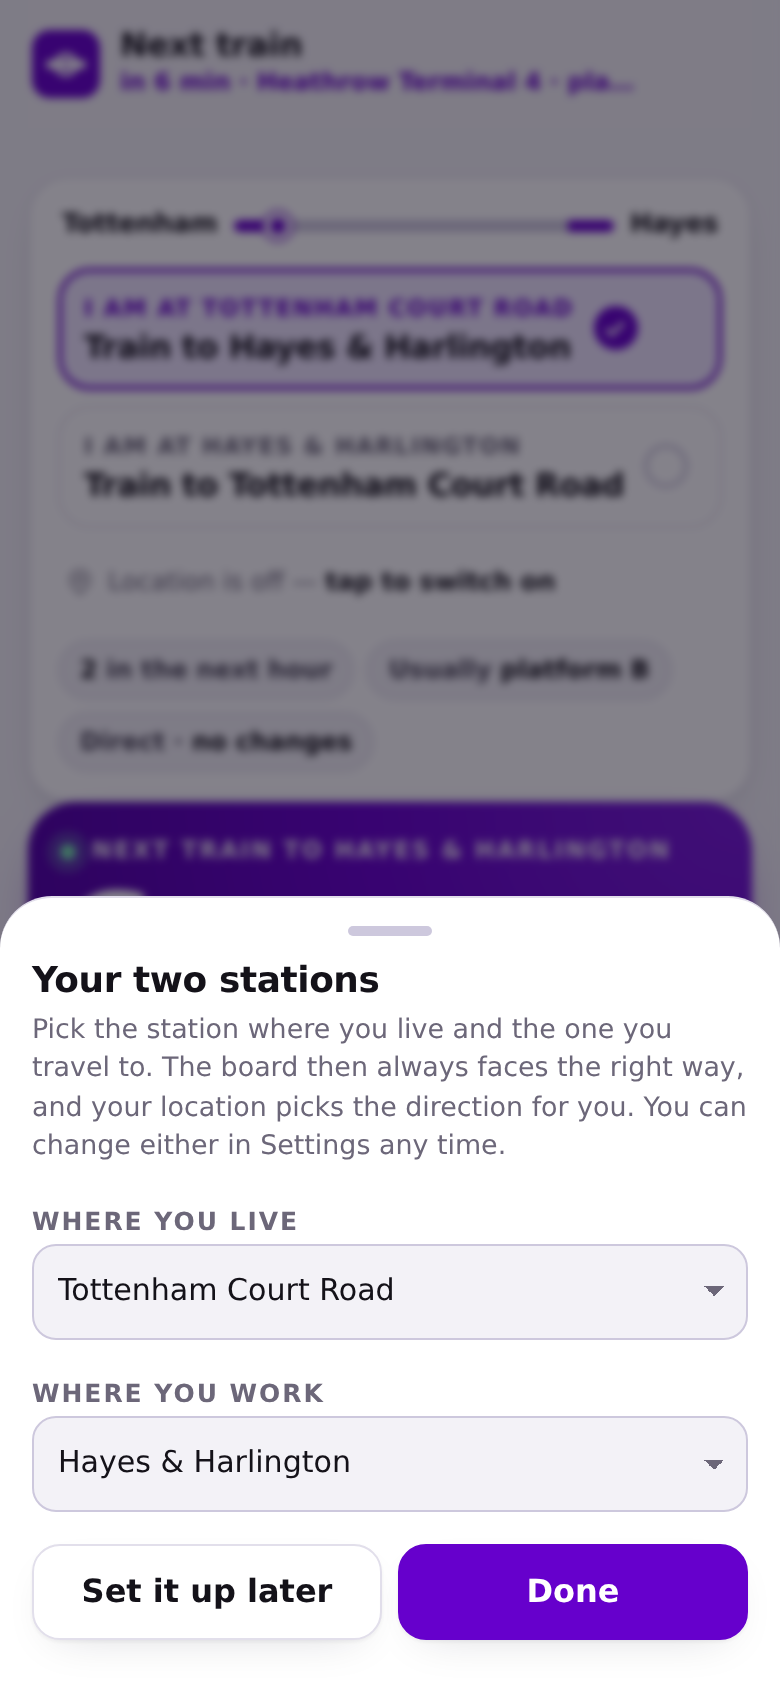
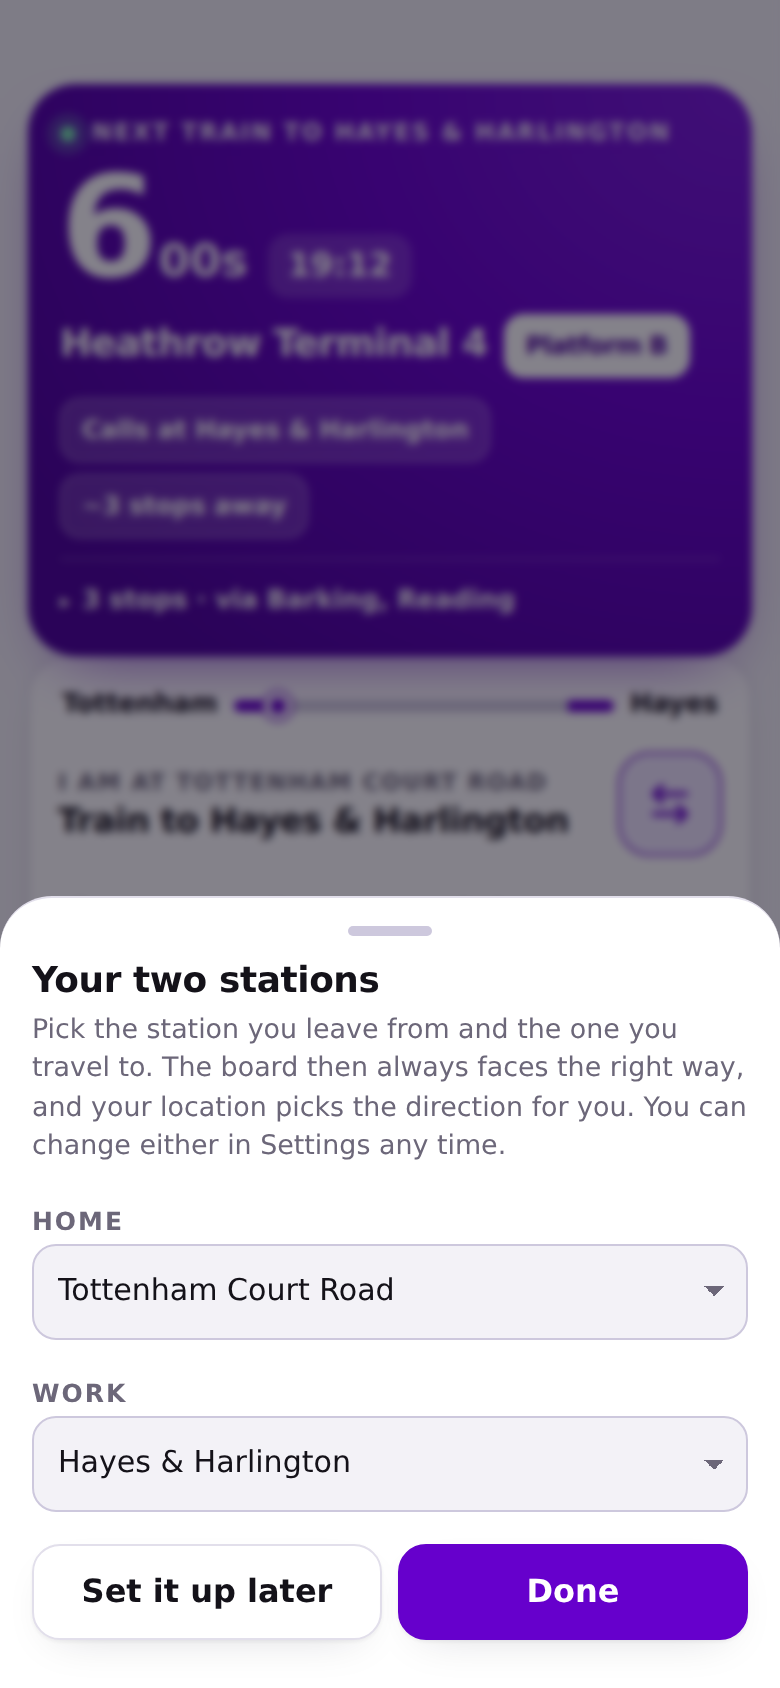
1.4.0: big card leads the screen; one-row direction with flip; one-time setup; Home/Work labels; tri-colour line status

diff --git a/web/index.html b/web/index.html
@@ -43,7 +43,7 @@
   .sr-only{position:absolute!important;width:1px;height:1px;padding:0;margin:-1px;overflow:hidden;clip:rect(0 0 0 0);white-space:nowrap;border:0}
   :focus-visible{outline:3px solid color-mix(in srgb, var(--el) 55%, transparent); outline-offset:2px; border-radius:8px}
 
-  .app{width:100%; max-width:540px; padding:0 14px calc(78px + env(safe-area-inset-bottom)); display:flex; flex-direction:column; gap:12px;
+  .app{width:100%; max-width:540px; padding:calc(10px + env(safe-area-inset-top)) 14px calc(78px + env(safe-area-inset-bottom)); display:flex; flex-direction:column; gap:12px;
        transition:transform .25s cubic-bezier(.2,.8,.3,1.15)}
   .app.is-pulling{transition:none}
 
@@ -74,24 +74,14 @@
   .route-where b{color:var(--ink)}
 
   /* pull-to-refresh indicator, parked where the old header buttons used to sit */
-  .pull-ind{width:44px;height:44px;flex:0 0 auto;border-radius:14px;display:grid;place-items:center;color:var(--el);
-            opacity:0;transform:scale(.55);transition:opacity .18s ease,transform .18s ease;pointer-events:none}
+  .pull-ind{position:absolute;top:10px;left:50%;transform:translateX(-50%) scale(.55);width:44px;height:44px;z-index:5;
+            border-radius:14px;display:grid;place-items:center;color:var(--el);background:var(--card);
+            box-shadow:0 2px 10px rgba(0,0,0,.18);opacity:0;transition:opacity .18s ease,transform .18s ease;pointer-events:none}
   .pull-ind svg{width:22px;height:22px}
-  .pull-ind.dragging,.pull-ind.loading{opacity:1;transform:scale(1)}
+  .pull-ind.dragging,.pull-ind.loading{opacity:1;transform:translateX(-50%) scale(1)}
   .pull-ind.loading svg{animation:spin .8s linear infinite}
 
-  /* ---------- top bar ---------- */
-  .bar{
-    position:sticky; top:0; z-index:30; display:flex; align-items:center; gap:10px;
-    padding:calc(10px + env(safe-area-inset-top)) 2px 10px;
-    background:color-mix(in srgb, var(--bg) 86%, transparent); backdrop-filter:blur(12px) saturate(1.2);
-  }
-  .mark{width:34px;height:34px;flex:0 0 auto;border-radius:9px;background:var(--el);display:grid;place-items:center}
-  .mark svg{width:22px;height:22px;display:block}
-  .bar-title{flex:1 1 auto; min-width:0}
-  .bar-title strong{display:block;font-size:1.02rem;letter-spacing:-.01em;line-height:1.2}
-  .bar-title span{display:block;font-size:.76rem;color:var(--muted);white-space:nowrap;overflow:hidden;text-overflow:ellipsis}
-  .bar-title.compact span{color:var(--el);font-weight:700;font-variant-numeric:tabular-nums}
+  /* ---------- one row: where you are + the flip button ---------- */
   .icon-btn{
     width:44px;height:44px;flex:0 0 auto;border:1px solid var(--line);background:var(--card);border-radius:14px;
     display:grid;place-items:center;cursor:pointer;box-shadow:var(--shadow);
@@ -115,7 +105,9 @@
   .banner .affects span{color:var(--card)}
   .banner[data-sev="bad"]{background:var(--bad-soft);color:var(--bad);border:1px solid color-mix(in srgb, currentColor 28%, transparent)}
   .banner[data-sev="warn"]{background:var(--warn-soft);color:var(--warn);border:1px solid color-mix(in srgb, currentColor 28%, transparent)}
-  .banner[data-sev="good"]{background:var(--ok-soft);color:var(--ok);border:1px solid color-mix(in srgb, currentColor 24%, transparent)}
+  .banner[data-sev="good"]{width:fit-content;display:inline-flex;align-items:center;gap:7px;padding:5px 12px;border-radius:99px;
+      background:var(--ok-soft);color:var(--ok);border:1px solid color-mix(in srgb, currentColor 24%, transparent);font-size:.78rem;font-weight:600}
+  .banner[data-sev="good"] .dotg{width:8px;height:8px;border-radius:50%;background:currentColor}
   .banner[data-sev="update"]{background:var(--el-soft);color:var(--ink);border:1px solid color-mix(in srgb, var(--el) 30%, transparent)}
   .banner[data-sev="update"] b{color:var(--ink)}
   .banner[data-sev="update"] span{color:var(--muted)}
@@ -134,21 +126,14 @@
   .route-strip .track{flex:1 1 auto;height:6px;border-radius:99px;background:linear-gradient(90deg,var(--el) 0 12%, var(--line-strong) 12% 88%, var(--el) 88% 100%);position:relative}
   .route-strip .track i{position:absolute;top:50%;width:14px;height:14px;border-radius:50%;background:var(--el);border:3px solid var(--card);transform:translate(-50%,-50%);left:12%;box-shadow:0 0 0 1px var(--el)}
   .route-strip.rev .track i{left:88%}
-  .seg{
-    display:flex;align-items:center;gap:10px;width:100%;
-    padding:11px 12px;min-height:58px;border:1.5px solid var(--line);background:transparent;border-radius:16px;cursor:pointer;text-align:left;
-  }
-  .seg small{font-size:.72rem;text-transform:uppercase;letter-spacing:.07em;color:var(--muted);font-weight:600}
-  .seg b{font-size:1rem;letter-spacing:-.015em;line-height:1.2}
-  .seg[aria-pressed="true"]{border-color:var(--el);background:var(--el-soft);box-shadow:inset 0 0 0 1px var(--el)}
-  .seg[aria-pressed="true"] small{color:var(--el)}
-  .seg:active{transform:scale(.99)}
-  .seg-grid{display:grid;gap:8px}
-  .seg .tick{width:22px;height:22px;border-radius:50%;border:2px solid var(--line-strong);flex:0 0 auto;display:grid;place-items:center}
-  .seg[aria-pressed="true"] .tick{border-color:var(--el);background:var(--el)}
-  .seg .tick svg{width:13px;height:13px;opacity:0;color:#fff}
-  .seg[aria-pressed="true"] .tick svg{opacity:1}
-  .seg .txt-wrap{display:flex;flex-direction:column;gap:1px;min-width:0}
+  .dir-row{display:flex;align-items:center;gap:12px;padding:2px 0}
+  .dir-txt{flex:1 1 auto;min-width:0}
+  .dir-txt small{display:block;font-size:.72rem;text-transform:uppercase;letter-spacing:.07em;color:var(--muted);font-weight:600}
+  .dir-txt b{display:block;font-size:1.05rem;letter-spacing:-.015em;line-height:1.25}
+  .flip{width:52px;height:52px;flex:0 0 auto;border-radius:16px;border:1px solid var(--el);background:var(--el-soft);
+        color:var(--el);display:grid;place-items:center;cursor:pointer}
+  .flip:active{transform:scale(.96)}
+  .flip svg{width:24px;height:24px}
   /* "which station am I at" line */
   .geo{display:flex;align-items:center;gap:7px;width:100%;margin-top:10px;padding:6px 4px;border:0;background:none;
        font:inherit;font-size:.79rem;color:var(--muted);text-align:left;cursor:pointer;border-radius:10px;min-height:34px}
@@ -281,7 +266,7 @@
     .app{max-width:840px;gap:14px}
     main{display:grid;grid-template-columns:minmax(0,1fr) minmax(0,1fr);gap:14px;align-items:start}
     #journey{grid-column:1}
-    #heroWrap{grid-column:1;position:sticky;top:72px}
+    #heroWrap{grid-column:1;position:sticky;top:8px}
     #listCard{grid-column:2;grid-row:1 / span 2;position:sticky;top:72px;max-height:calc(100dvh - 150px);overflow:auto}
     main{grid-template-columns:minmax(0,1.05fr) minmax(0,1fr)}
   }
@@ -293,37 +278,35 @@
 <body>
 <div class="app">
 
-  <header class="bar">
-    <span class="mark" aria-hidden="true">
-      <svg viewBox="0 0 24 24" fill="none"><rect x="1" y="10" width="22" height="4.6" rx="2.3" fill="#fff"/><circle cx="12" cy="12.3" r="5.4" stroke="#fff" stroke-width="2.4" fill="none"/></svg>
-    </span>
-    <div class="bar-title" id="barTitle">
-      <strong>Next train</strong>
-      <span id="barSub">Elizabeth line · live departures</span>
-    </div>
-    <span class="pull-ind" id="pullInd" aria-hidden="true">
-      <svg viewBox="0 0 24 24" fill="none" stroke="currentColor" stroke-width="2.1" stroke-linecap="round" stroke-linejoin="round"><path d="M21 12a9 9 0 1 1-2.6-6.4"/><path d="M21 3v5h-5"/></svg>
-    </span>
-  </header>
-
   <div id="bannerSlot"></div>
   <div id="updateBannerSlot"></div>
 
   <main>
+    <div id="heroWrap">
+      <span class="pull-ind" id="pullInd" aria-hidden="true">
+        <svg viewBox="0 0 24 24" fill="none" stroke="currentColor" stroke-width="2.1" stroke-linecap="round" stroke-linejoin="round"><path d="M21 12a9 9 0 1 1-2.6-6.4"/><path d="M21 3v5h-5"/></svg>
+      </span>
+      <section class="hero" id="hero">
+        <div class="kicker"><span class="live" aria-hidden="true"></span><span id="heroKicker">Next train</span></div>
+        <div id="heroBody">
+          <div class="skel-row" style="grid-template-columns:1fr"><div class="skeleton" style="height:64px;border-radius:16px"></div></div>
+        </div>
+      </section>
+    </div>
+
     <section class="card journey" id="journey" aria-label="Direction of travel">
       <div class="route-strip" id="routeStrip" aria-hidden="true">
         <span class="st" id="stripFrom">TCR</span>
         <span class="track"><i></i></span>
         <span class="st" id="stripTo">Hayes</span>
       </div>
-      <div class="seg-grid">
-        <button class="seg" data-dir="to-work" aria-pressed="true">
-          <span class="txt-wrap"><small>…</small><b>…</b></span>
-          <span class="tick" aria-hidden="true"><svg viewBox="0 0 24 24" fill="none" stroke="currentColor" stroke-width="3.4" stroke-linecap="round"><path d="m5 13 4 4L19 7"/></svg></span>
-        </button>
-        <button class="seg" data-dir="to-home" aria-pressed="false">
-          <span class="txt-wrap"><small>…</small><b>…</b></span>
-          <span class="tick" aria-hidden="true"><svg viewBox="0 0 24 24" fill="none" stroke="currentColor" stroke-width="3.4" stroke-linecap="round"><path d="m5 13 4 4L19 7"/></svg></span>
+      <div class="dir-row">
+        <div class="dir-txt">
+          <small id="dirAt">I am at …</small>
+          <b id="dirTo">Train to …</b>
+        </div>
+        <button class="flip" id="btnFlip" type="button" aria-label="Flip the direction" title="Flip the direction">
+          <svg viewBox="0 0 24 24" fill="none" stroke="currentColor" stroke-width="2.2" stroke-linecap="round" stroke-linejoin="round"><path d="m8 3-4 4 4 4"/><path d="M4 7h16"/><path d="m16 21 4-4-4-4"/><path d="M20 17H4"/></svg>
         </button>
       </div>
       <button class="geo" id="geoLine" type="button" title="Check where you are">
@@ -332,15 +315,6 @@
       </button>
       <div class="facts" id="facts"></div>
     </section>
-
-    <div id="heroWrap">
-      <section class="hero" id="hero">
-        <div class="kicker"><span class="live" aria-hidden="true"></span><span id="heroKicker">Next train to Hayes &amp; Harlington</span></div>
-        <div id="heroBody">
-          <div class="skel-row" style="grid-template-columns:1fr"><div class="skeleton" style="height:64px;border-radius:16px"></div></div>
-        </div>
-      </section>
-    </div>
 
     <section class="card list" id="listCard">
       <div class="list-head">
@@ -375,10 +349,10 @@
 <aside id="setupSheet" class="sheet" hidden role="dialog" aria-modal="true" aria-labelledby="setupTitle">
   <div class="grab" aria-hidden="true"></div>
   <h2 id="setupTitle">Your two stations</h2>
-  <p class="lede">Pick the station where you live and the one you travel to. The board then always faces the right way, and your location picks the direction for you. You can change either in Settings any time.</p>
-  <h3>Where you live</h3>
+  <p class="lede">Pick the station you leave from and the one you travel to. The board then always faces the right way, and your location picks the direction for you. You can change either in Settings any time.</p>
+  <h3>Home</h3>
   <select class="txt" id="setupHome"></select>
-  <h3>Where you work</h3>
+  <h3>Work</h3>
   <select class="txt" id="setupWork"></select>
   <p class="fine" id="setupNote" hidden>Both picks need to be different stations.</p>
   <div class="row" style="margin-top:16px">
@@ -398,11 +372,11 @@
 
   <h3>Your stations</h3>
   <div class="stack">
-    <label class="fine" for="optHome">Where you live</label>
+    <label class="fine" for="optHome">Home</label>
     <select class="txt" id="optHome"></select>
-    <label class="fine" for="optWork">Where you work</label>
+    <label class="fine" for="optWork">Work</label>
     <select class="txt" id="optWork"></select>
-    <p class="fine">The board shows the next train to your work station while you are at home, and the journey home the other way round. Changing either re-aims the whole board.</p>
+    <p class="fine">The board shows the next train to Work while you are at Home, and the journey back the other way round. Changing either re-aims the whole board.</p>
   </div>
 
   <h3>Updates</h3>
@@ -938,7 +912,10 @@ function applyPairIfNeeded(){
 let setupOpened = false;
 function maybeOpenSetup(){
   if(setupOpened) return;
+  /* asked once per install: after that the pair lives in Settings */
+  if(store.get("setupSeen", false)) return;
   setupOpened = true;
+  store.set("setupSeen", true);
   fillStationSelects($("setupHome"), state.ids.home);
   fillStationSelects($("setupWork"), state.ids.work);
   setupPreview();
@@ -1088,14 +1065,8 @@ function minsLabel(m){
 function renderJourney(){
   const r = ROUTES[state.route];
   const from = STATIONS[r.from], to = STATIONS[r.to];
-  document.querySelectorAll(".seg").forEach(b => {
-    b.setAttribute("aria-pressed", String(b.dataset.dir === state.route));
-    const atHome = b.dataset.dir === "to-work";
-    const fromKey = atHome ? "home" : "work";
-    const toKey   = atHome ? "work" : "home";
-    b.querySelector("small").textContent = "I am at " + STATIONS[fromKey].label;
-    b.querySelector("b").textContent = "Train to " + STATIONS[toKey].label;
-  });
+  $("dirAt").textContent = "I am at " + from.label;
+  $("dirTo").textContent = "Train to " + to.label;
   $("stripFrom").textContent = from.abbr;
   $("stripTo").textContent = to.abbr;
   $("routeStrip").classList.toggle("rev", state.route === "to-home");
@@ -1143,8 +1114,6 @@ function renderHero(){
       </div>`;
     $("heroRetry").addEventListener("click", () => keys ? openSheet() : refresh(true));
     $("heroSettings").addEventListener("click", openSheet);
-    $("barTitle").classList.remove("compact");
-    $("barSub").textContent = keys ? "needs a TfL API key" : offline ? "no signal" : "no live data";
     return;
   }
 
@@ -1152,8 +1121,6 @@ function renderHero(){
     hero.classList.remove("due");
     body.innerHTML = `<div class="to">No train found that stops at ${esc(STATIONS[otherKey()].label)}</div>
       <div class="via">None of the next 45 departures on TfL’s feed reaches that station. Turn on “${settings.showAll?"Hide":"Show"} trains that miss this station” to see what is running, or check the line status above — engineering works and part closures do cause this.</div>`;
-    $("barTitle").classList.remove("compact");
-    $("barSub").textContent = "Nothing direct in the next hour";
     return;
   }
   hero.classList.remove("is-error");
@@ -1184,8 +1151,6 @@ function renderHero(){
     <details class="via-box" id="heroViaBox"><summary>${viaSummary}</summary><div class="via" id="heroVia"></div></details>`;
   renderJourneyViaOnly();
 
-  $("barTitle").classList.add("compact");
-  $("barSub").textContent = heroBarText(lab, next);
   hero.dataset.depId = next.id;
 }
 
@@ -1232,14 +1197,6 @@ function depRow(d, isOther){
     </div></li>`;
 }
 
-function heroBarText(lab, next){
-  const when = lab.big === "Due" ? "due now"
-    : lab.big.includes("h") ? `in ${lab.big}`
-    : lab.big.includes(" ") ? `in ${lab.big}`
-    : `in ${lab.big} min`;
-  return `${when} · ${next.destination}${next.platform?" · platform "+next.platform:""}`;
-}
-
 function renderList(){
   const all = decorate(state.arrivals);
   $("listCard").style.display = all.length ? "" : "none";
@@ -1271,18 +1228,17 @@ function renderStatus(){
   const slot = $("bannerSlot");
   const s = state.status;
   if(!s){ slot.innerHTML = ""; return; }
+  const full = (s.reason || "").replace(/&#10;/g, " ").replace(/\s+/g, " ").trim();
   const good = s.statusSeverity === 10 || s.statusSeverityDescription === "Good Service";
   if(good){
-    slot.innerHTML = `<div class="banner" data-sev="good"><svg viewBox="0 0 24 24" fill="none" stroke="currentColor" stroke-width="2.4" stroke-linecap="round"><path d="m5 13 4 4L19 7"/></svg>
-      <div class="body"><b>Elizabeth line: Good Service</b></div></div>`;
+    slot.innerHTML = `<div class="banner" data-sev="good"><span class="dotg"></span>All good</div>`;
     return;
   }
-  const sev = s.statusSeverity >= 6 ? "bad" : (s.statusSeverity >= 4 ? "warn" : "good");
-  const full = (s.reason || "").replace(/&#10;/g, " ").replace(/\s+/g, " ").trim();
   const first = full.split(/(?<=[a-z0-9\)])[.!?](\s|$)/)[0].trim();
   const head  = first.length > 104 ? first.slice(0,102).trim()+"…" : first;
   const more  = full.length > head.length ? full.slice(head.length).trim() : "";
   const affects = mentionsOurStations(full);
+  const sev = affects ? "bad" : "warn";   // amber for line problems, red when your route is hit
   slot.innerHTML = `<div class="banner" data-sev="${sev}" role="status">
       <svg viewBox="0 0 24 24" fill="none" stroke="currentColor" stroke-width="2.2" stroke-linecap="round"><path d="M12 9v5"/><path d="M12 17.5h.01"/><path d="M10.3 3.9 2.6 17.4A2 2 0 0 0 4.3 20.5h15.4a2 2 0 0 0 1.7-3.1L13.7 3.9a2 2 0 0 0-3.4 0Z"/></svg>
       <div class="body">
@@ -1355,7 +1311,6 @@ function tick(){
       const cd = $("heroBody").querySelector(".cd");
       cd.innerHTML = esc(lab.big) + (lab.small?`<small>${esc(lab.small)}</small>`:"");
       $("hero").classList.toggle("due", m <= 1 && m > -2);
-      $("barSub").textContent = heroBarText(lab, next);
       if(Math.floor(m) !== state.lastAnnounce && m > -1){
         state.lastAnnounce = Math.floor(m);
         $("announce").textContent = `Next train to ${STATIONS[otherKey()].label}: ${next.destination}, ${lab.big==="Due"?"due now":"in "+lab.big+" minutes"}${next.platform?", platform "+next.platform:""}.`;
@@ -1775,13 +1730,14 @@ function setRoute(route, refetch){
   if(refetch !== false) refresh();
 }
 
-document.querySelectorAll(".seg").forEach(b => b.addEventListener("click", () => {
+$("btnFlip").addEventListener("click", () => {
+  const dir = state.route === "to-work" ? "to-home" : "to-work";
   geo.manualUntil = Date.now() + MANUAL_HOLD;
-  setRoute(b.dataset.dir);
+  setRoute(dir);
   const n = nearestStation();
-  if(n && n.metres <= NEAR_METRES && n.route !== b.dataset.dir) geo.verdict = "held";
+  if(n && n.metres <= NEAR_METRES && n.route !== dir) geo.verdict = "held";
   renderGeo();
-}));
+});
 
 $("geoLine").addEventListener("click", () => {
   const act = $("geoLine").dataset.act;

diff --git a/README.md b/README.md
@@ -1,7 +1,7 @@
 # Oli Commuter
 
-An Elizabeth line departures board for the journey that matters — the one between **the two
-stations you pick**: where you live and where you work. Live times from Transport for London,
+An Elizabeth line departures board for the journey that matters — the one between **your two
+stations**, the ones you mark as Home and Work. Live times from Transport for London,
 no account, no tracking, and — in the Android app — it opens on the right end of the platform
 because it knows which station you are standing at.
 
@@ -18,9 +18,9 @@ Grab the newest `Oli-Commuter-debug.apk` from [Releases](../../releases) and put
 phone (cable, Files, email — whatever you already use). Tap it, allow *install from this app*
 once when Android complains, tap it again. Android 7.0 or newer.
 
-On first launch it asks two things: **which two stations are yours** (where you live and where
-you travel to — it guesses the classic pair, you confirm or change in two taps), and
-**location** (**While using the app**) so it knows which of the two you are standing at.
+On first launch it asks two things: **which two stations are yours** (it guesses the classic
+pair, you confirm or change in two taps) — it asks once and then leaves the pair to Settings —
+and **location** (**While using the app**) so it knows which of the two you are standing at.
 Nothing else is needed — no account, nothing running in the background.
 
 From 1.3.0 an installed app updates itself from within (see above), so you only
@@ -32,12 +32,15 @@ id is `com.localtools.olicommuter`.
 
 ## What it does
 
-- **Your two stations.** First run asks where you live and where you work; after that the whole
-  board faces the right way — next train to work when you are at home, the journey home when you
-  are not. Either one can be changed in Settings at any time, and every station on the line is a
+- **Your two stations, Home and Work.** First run asks for them once; after that the whole
+  board faces the right way — next train to Work when you are at Home, the journey back when
+  you are not. Either one is changed in Settings any time, and every station on the line is a
   valid pick, not just the two this app shipped with.
-- **The next train, unmissably big** — countdown, minutes, platform, destination, and whether
-  it actually calls at the other station.
+- **The next train, unmissably big, and at the top.** Countdown, minutes, platform,
+  destination, and whether it actually calls at the other station — the big card leads the
+  screen and nothing else repeats it.
+- **One row, one flip.** The journey card says where you are, where the trains go, and a single
+  button flips the direction.
 - **Updates itself.** The app checks the release feed while it is open,
   offers a new version as a banner, downloads it (progress included), verifies
   the published SHA-256 and hands it to Android's installer. You can also
@@ -52,9 +55,10 @@ id is `com.localtools.olicommuter`.
   going the right way with no confirmation of a call says exactly that, never "stops here".
 - **Everything else on the line** is one tap away, greyed out, each with the reason it is
   useless to you.
-- **Service problems** from TfL appear at the top as soon as they exist. The 20-second refresh
-  can be paused; the board keeps the last real times and labels them as remembered rather than
-  live if the signal drops.
+- **Line status you can read at a glance.** A small green "All good" pill when the line is
+  fine; amber when there is a problem on the line; red, with an *on your route* badge, when the
+  problem hits your two stations. The 20-second refresh can be paused; the board keeps the last
+  real times and labels them as remembered rather than live if the signal drops.
 - **Alerts** vibrate — and notify, if you allow it — when the next train is within your warning
   time.
 - **One-handed by design.** One button on screen, where your thumb already is: Settings.
@@ -71,8 +75,8 @@ One decision: which of *your* two stations you are standing at, so the direction
   service, no geofence, nothing listening.
 - Inside 600 m it picks a direction. Further out it says *"Neither station is close · 9.1 km to
   TCR"* and leaves you the buttons.
-- A direction you tap by hand is left alone for ten minutes even if the GPS disagrees, and the
-  two buttons still work with location switched off entirely.
+- A direction you flip by hand is left alone for ten minutes even if the GPS disagrees, and the
+  flip button still works with location switched off entirely.
 - Station coordinates come from TfL's own published route data and are cached on the phone. The
   comparing happens on the handset; the only network traffic is the same anonymous TfL API call
   the web page makes.

diff --git a/CHANGELOG.md b/CHANGELOG.md
@@ -3,6 +3,18 @@
 Worth-noting changes only. The version in `package.json` and `versionName` in
 `android/app/build.gradle` move together; tags are the version with a `v` in front.
 
+## 1.4.0 — 2026-11-15
+
+- The board now leads with the big next-train card at the top of the screen; the small
+  "Next train" bar that said the same thing underneath is gone
+- The direction card is now one row — where you are, where the trains go, and a single
+  button that flips the direction
+- The station setup sheet now appears only on first install; after that your pair is
+  changed in Settings, where the fields are labelled Home and Work
+- Line status: a small green "All good" pill when the line is fine, amber when there is
+  a problem on the line, red with an "on your route" badge when the problem hits your
+  two stations
+
 ## 1.3.2 — 2026-11-15
 
 - The Settings, setup and train-route sheets can now be dismissed by swiping
